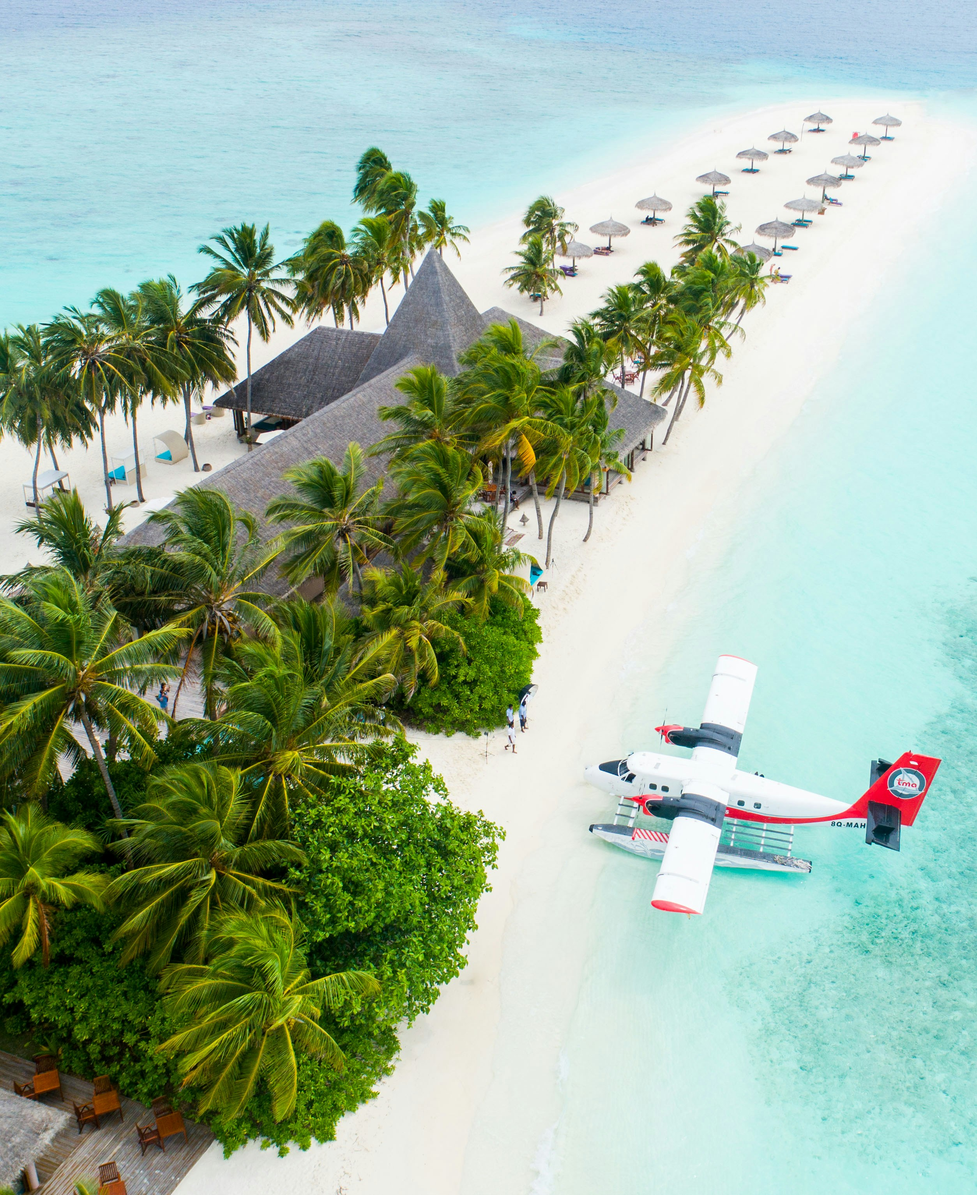
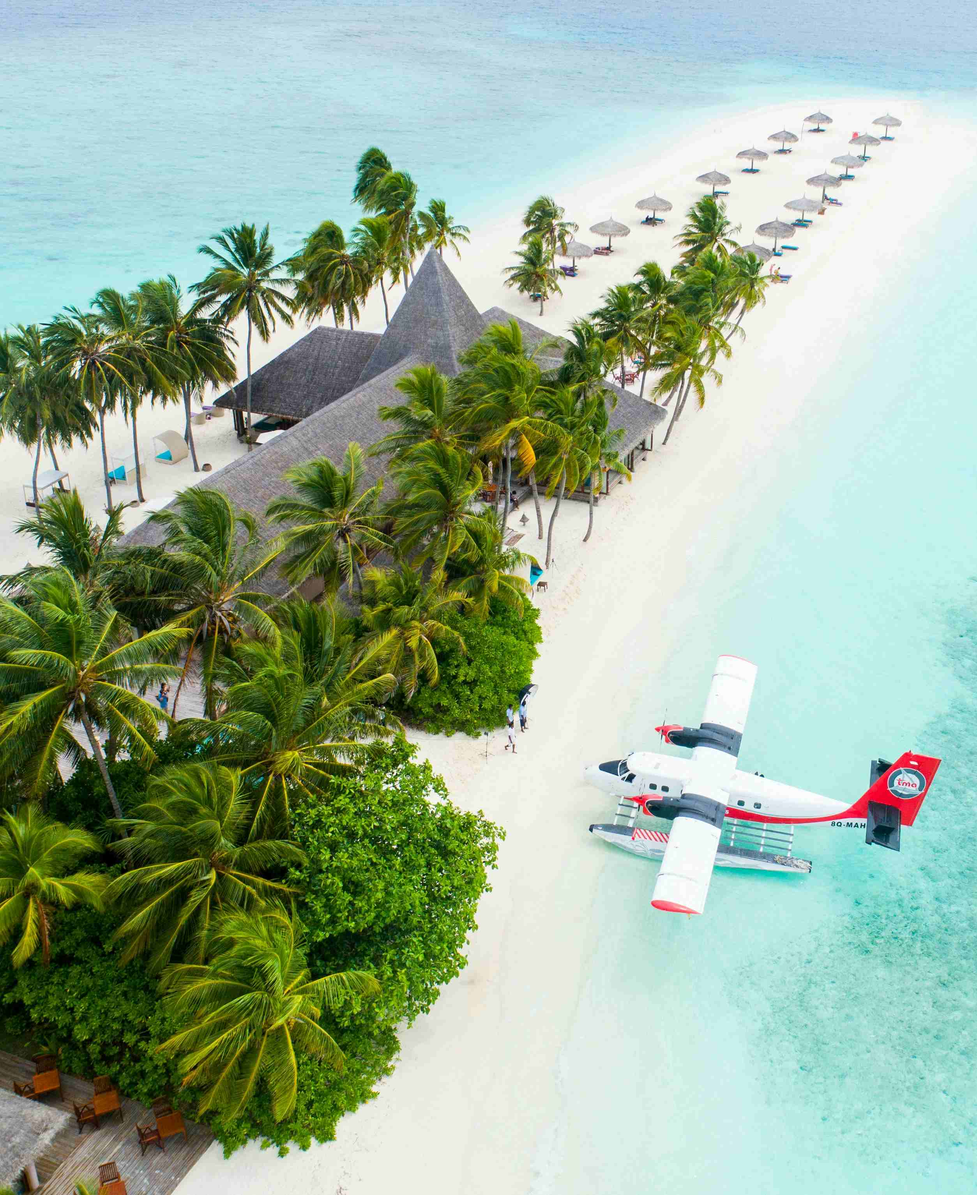
code refactor to implement lazy loading architecture to enhance angular performance

diff --git a/src/app/per-diem/per-diem-routing/per-diem.module.ts b/src/app/per-diem/per-diem-routing/per-diem.module.ts
@@ -1,0 +1,50 @@
+import { NgModule } from '@angular/core';
+import { CommonModule } from '@angular/common';
+import { TravelRoutingModule } from 'src/app/travel/travel-routing.module';
+
+import { MatTableModule } from '@angular/material/table';
+import { MatButtonModule } from '@angular/material/button';
+import { MatIconModule } from '@angular/material/icon';
+import { MatProgressSpinnerModule } from '@angular/material/progress-spinner';
+import { FormsModule, ReactiveFormsModule } from '@angular/forms';
+import { MatFormFieldModule } from '@angular/material/form-field'; 
+import { MatInputModule } from '@angular/material/input';
+import { MatCardModule } from '@angular/material/card';
+import { MatDatepickerModule } from '@angular/material/datepicker';
+import { MatNativeDateModule } from '@angular/material/core';
+import { MatSelectModule } from '@angular/material/select';
+import { MatOptionModule } from '@angular/material/core';
+import { MatSortModule } from '@angular/material/sort';
+import { MatTooltipModule } from '@angular/material/tooltip';
+import { RouterModule } from '@angular/router';
+
+
+@NgModule({
+  declarations: [
+    //TravelListComponent,
+    //TravelCreateComponent,
+    //TravelEditComponent,
+    //TravelDetailComponent
+  ],
+  imports: [
+    CommonModule,
+    RouterModule,
+    TravelRoutingModule,
+    MatTableModule,
+    MatButtonModule,
+    MatIconModule,
+    MatProgressSpinnerModule,
+    ReactiveFormsModule,
+    MatFormFieldModule,
+    MatInputModule,
+    MatCardModule,
+    MatDatepickerModule,
+    MatNativeDateModule,
+    MatSelectModule,
+    FormsModule,
+    MatOptionModule,
+    MatSortModule,
+    MatTooltipModule
+  ]
+})
+export class PerDiemModule { }

diff --git a/src/app/bu-head/bu-head-routing/bu-head.module.ts b/src/app/bu-head/bu-head-routing/bu-head.module.ts
@@ -1,0 +1,50 @@
+import { NgModule } from '@angular/core';
+import { CommonModule } from '@angular/common';
+import { TravelRoutingModule } from 'src/app/travel/travel-routing.module';
+
+import { MatTableModule } from '@angular/material/table';
+import { MatButtonModule } from '@angular/material/button';
+import { MatIconModule } from '@angular/material/icon';
+import { MatProgressSpinnerModule } from '@angular/material/progress-spinner';
+import { FormsModule, ReactiveFormsModule } from '@angular/forms';
+import { MatFormFieldModule } from '@angular/material/form-field'; 
+import { MatInputModule } from '@angular/material/input';
+import { MatCardModule } from '@angular/material/card';
+import { MatDatepickerModule } from '@angular/material/datepicker';
+import { MatNativeDateModule } from '@angular/material/core';
+import { MatSelectModule } from '@angular/material/select';
+import { MatOptionModule } from '@angular/material/core';
+import { MatSortModule } from '@angular/material/sort';
+import { MatTooltipModule } from '@angular/material/tooltip';
+import { RouterModule } from '@angular/router';
+
+
+@NgModule({
+  declarations: [
+    //TravelListComponent,
+    //TravelCreateComponent,
+    //TravelEditComponent,
+    //TravelDetailComponent
+  ],
+  imports: [
+    CommonModule,
+    RouterModule,
+    TravelRoutingModule,
+    MatTableModule,
+    MatButtonModule,
+    MatIconModule,
+    MatProgressSpinnerModule,
+    ReactiveFormsModule,
+    MatFormFieldModule,
+    MatInputModule,
+    MatCardModule,
+    MatDatepickerModule,
+    MatNativeDateModule,
+    MatSelectModule,
+    FormsModule,
+    MatOptionModule,
+    MatSortModule,
+    MatTooltipModule
+  ]
+})
+export class BuHeadModule { }

diff --git a/src/app/approval/approval-routing/approval.module.ts b/src/app/approval/approval-routing/approval.module.ts
@@ -1,0 +1,47 @@
+import { NgModule } from '@angular/core';
+import { CommonModule } from '@angular/common';
+import { TravelRoutingModule } from 'src/app/travel/travel-routing.module';
+
+import { MatTableModule } from '@angular/material/table';
+import { MatButtonModule } from '@angular/material/button';
+import { MatIconModule } from '@angular/material/icon';
+import { MatProgressSpinnerModule } from '@angular/material/progress-spinner';
+import { FormsModule, ReactiveFormsModule } from '@angular/forms';
+import { MatFormFieldModule } from '@angular/material/form-field'; 
+import { MatInputModule } from '@angular/material/input';
+import { MatCardModule } from '@angular/material/card';
+import { MatDatepickerModule } from '@angular/material/datepicker';
+import { MatNativeDateModule } from '@angular/material/core';
+import { MatSelectModule } from '@angular/material/select';
+import { MatOptionModule } from '@angular/material/core';
+import { MatSortModule } from '@angular/material/sort';
+import { MatTooltipModule } from '@angular/material/tooltip';
+import { RouterModule } from '@angular/router';
+
+
+@NgModule({
+  declarations: [
+    
+  ],
+  imports: [
+    CommonModule,
+    RouterModule,
+    TravelRoutingModule,
+    MatTableModule,
+    MatButtonModule,
+    MatIconModule,
+    MatProgressSpinnerModule,
+    ReactiveFormsModule,
+    MatFormFieldModule,
+    MatInputModule,
+    MatCardModule,
+    MatDatepickerModule,
+    MatNativeDateModule,
+    MatSelectModule,
+    FormsModule,
+    MatOptionModule,
+    MatSortModule,
+    MatTooltipModule
+  ]
+})
+export class ApprovalModule { }

diff --git a/src/app/app-routing.module.ts b/src/app/app-routing.module.ts
@@ -1,7 +1,30 @@
-import { Routes } from '@angular/router';
+import { NgModule } from '@angular/core';
+import { RouterModule, Routes, PreloadAllModules } from '@angular/router';
+// import { Routes } from '@angular/router';
 
-const routes: Routes = [
-    { path: 'travels', loadChildren: () => import('./travel/travel.module').then(m => m.TravelModule) },
-    { path: '', redirectTo: '/travels', pathMatch: 'full' },
-  ];
+export const routes: Routes = [
+  { path: '', redirectTo: '/travels', pathMatch: 'full' },
+
+  { path: 'travels', loadChildren: () => import('./travel/travel.module').then(m => m.TravelModule) },
+  { path: 'buhead', loadChildren: () => import('src/app/bu-head/bu-head-routing/bu-head.module').then(m => m.BuHeadModule) },
+  { path: 'perdiem', loadChildren: () => import('src/app/per-diem/per-diem-routing/per-diem.module').then(m => m.PerDiemModule) },
+  { path: 'cfo', loadChildren: () => import('src/app/approval/approval-routing/approval.module').then(m => m.ApprovalModule) },
+];
+
+@NgModule({
+  imports: [
+    RouterModule.forRoot(routes, {
+      preloadingStrategy: PreloadAllModules, // 🌟 Preload all lazy modules
+      scrollPositionRestoration: 'enabled', // optional - restores scroll on navigation
+    }),
+  ],
+  exports: [RouterModule]
+})
+export class AppRoutingModule {}
+// import { Routes } from '@angular/router';
+
+// const routes: Routes = [
+//     { path: 'travels', loadChildren: () => import('./travel/travel.module').then(m => m.TravelModule) },
+//     { path: '', redirectTo: '/travels', pathMatch: 'full' },
+//   ];
   

diff --git a/src/app/bu-head/bu-head-routing/bu-head-routing.module.ts b/src/app/bu-head/bu-head-routing/bu-head-routing.module.ts
@@ -1,0 +1,27 @@
+import { Routes } from '@angular/router';
+import { BuheadListComponent } from 'src/app/bu-head/bu-head-request-list/bu-head-request-list.component';
+import { BuheadDetailComponent } from 'src/app/bu-head/buhead-detail/buhead-detail.component';
+import { BuheadCreateComponent } from 'src/app/bu-head/buhead-create/buhead-create.component';
+import { BuheadEditComponent } from 'src/app/bu-head/buhead-edit/buhead-edit.component';
+
+export const buheadRoutes: Routes = [
+  { path: '', redirectTo: 'list', pathMatch: 'full' },
+  { path: 'list', component: BuheadListComponent },
+  { path: 'detail/:id', component: BuheadDetailComponent },
+  { path: 'create', component: BuheadCreateComponent },
+  { path: 'edit/:id', component: BuheadEditComponent },
+];
+
+
+// import { NgModule } from '@angular/core';
+// import { CommonModule } from '@angular/common';
+
+
+
+// @NgModule({
+//   declarations: [],
+//   imports: [
+//     CommonModule
+//   ]
+// })
+// export class BuHeadRoutingModule { }

diff --git a/src/app/per-diem/per-diem-routing/per-diem-routing.module.ts b/src/app/per-diem/per-diem-routing/per-diem-routing.module.ts
@@ -1,0 +1,25 @@
+import { Routes } from '@angular/router';
+import { PerdiemListComponent } from 'src/app/per-diem/perdiem-list/perdiem-list.component';
+import { PerdiemDetailComponent } from 'src/app/per-diem/perdiem-detail/perdiem-detail.component';
+import { PerDiemComponent } from 'src/app/per-diem/perdiem-create/per-diem.component';
+
+export const perdiemRoutes: Routes = [
+  { path: '', redirectTo: 'list', pathMatch: 'full' },
+  { path: 'list', component: PerdiemListComponent },
+  { path: 'detail/:id', component: PerdiemDetailComponent },
+  { path: 'create', component: PerDiemComponent },
+  { path: 'edit/:id', component: PerDiemComponent },
+];
+
+// import { NgModule } from '@angular/core';
+// import { CommonModule } from '@angular/common';
+
+
+
+// @NgModule({
+//   declarations: [],
+//   imports: [
+//     CommonModule
+//   ]
+// })
+// export class PerDiemRoutingModule { }

diff --git a/src/app/approval/approval-routing/approval-routing.module.ts b/src/app/approval/approval-routing/approval-routing.module.ts
@@ -1,0 +1,25 @@
+import { Routes } from '@angular/router';
+import { CfoListComponent } from 'src/app/approval/cfo-list/cfo-list.component';
+import { CfoDetailComponent } from 'src/app/approval/cfo-detail/cfo-detail.component';
+import { CfoDashboardComponent } from 'src/app/approval/cfo-dashboard/cfo-dashboard.component';
+
+export const approvalRoutes: Routes = [
+  { path: '', redirectTo: 'list', pathMatch: 'full' },
+  { path: 'list', component: CfoListComponent },
+  { path: 'detail/:id', component: CfoDetailComponent },
+  { path: 'dashboard', component: CfoDashboardComponent },
+];
+
+
+// import { NgModule } from '@angular/core';
+// import { CommonModule } from '@angular/common';
+
+
+
+// @NgModule({
+//   declarations: [],
+//   imports: [
+//     CommonModule
+//   ]
+// })
+// export class ApprovalRoutingModule { }

diff --git a/src/app/travel/travel.routes.ts b/src/app/travel/travel.routes.ts
@@ -12,7 +12,6 @@ import { CfoListComponent } from '../approval/cfo-list/cfo-list.component';
 import { CfoDetailComponent } from '../approval/cfo-detail/cfo-detail.component';
 import { BuheadCreateComponent } from '../bu-head/buhead-create/buhead-create.component';
 import { BuheadEditComponent } from '../bu-head/buhead-edit/buhead-edit.component';
-import { LoginComponent } from '../auth/login/login.component';
 import { CfoDashboardComponent } from '../approval/cfo-dashboard/cfo-dashboard.component';
 import { PerDiemComponent } from '../per-diem/perdiem-create/per-diem.component';
 import { PerdiemListComponent } from '../per-diem/perdiem-list/perdiem-list.component';
